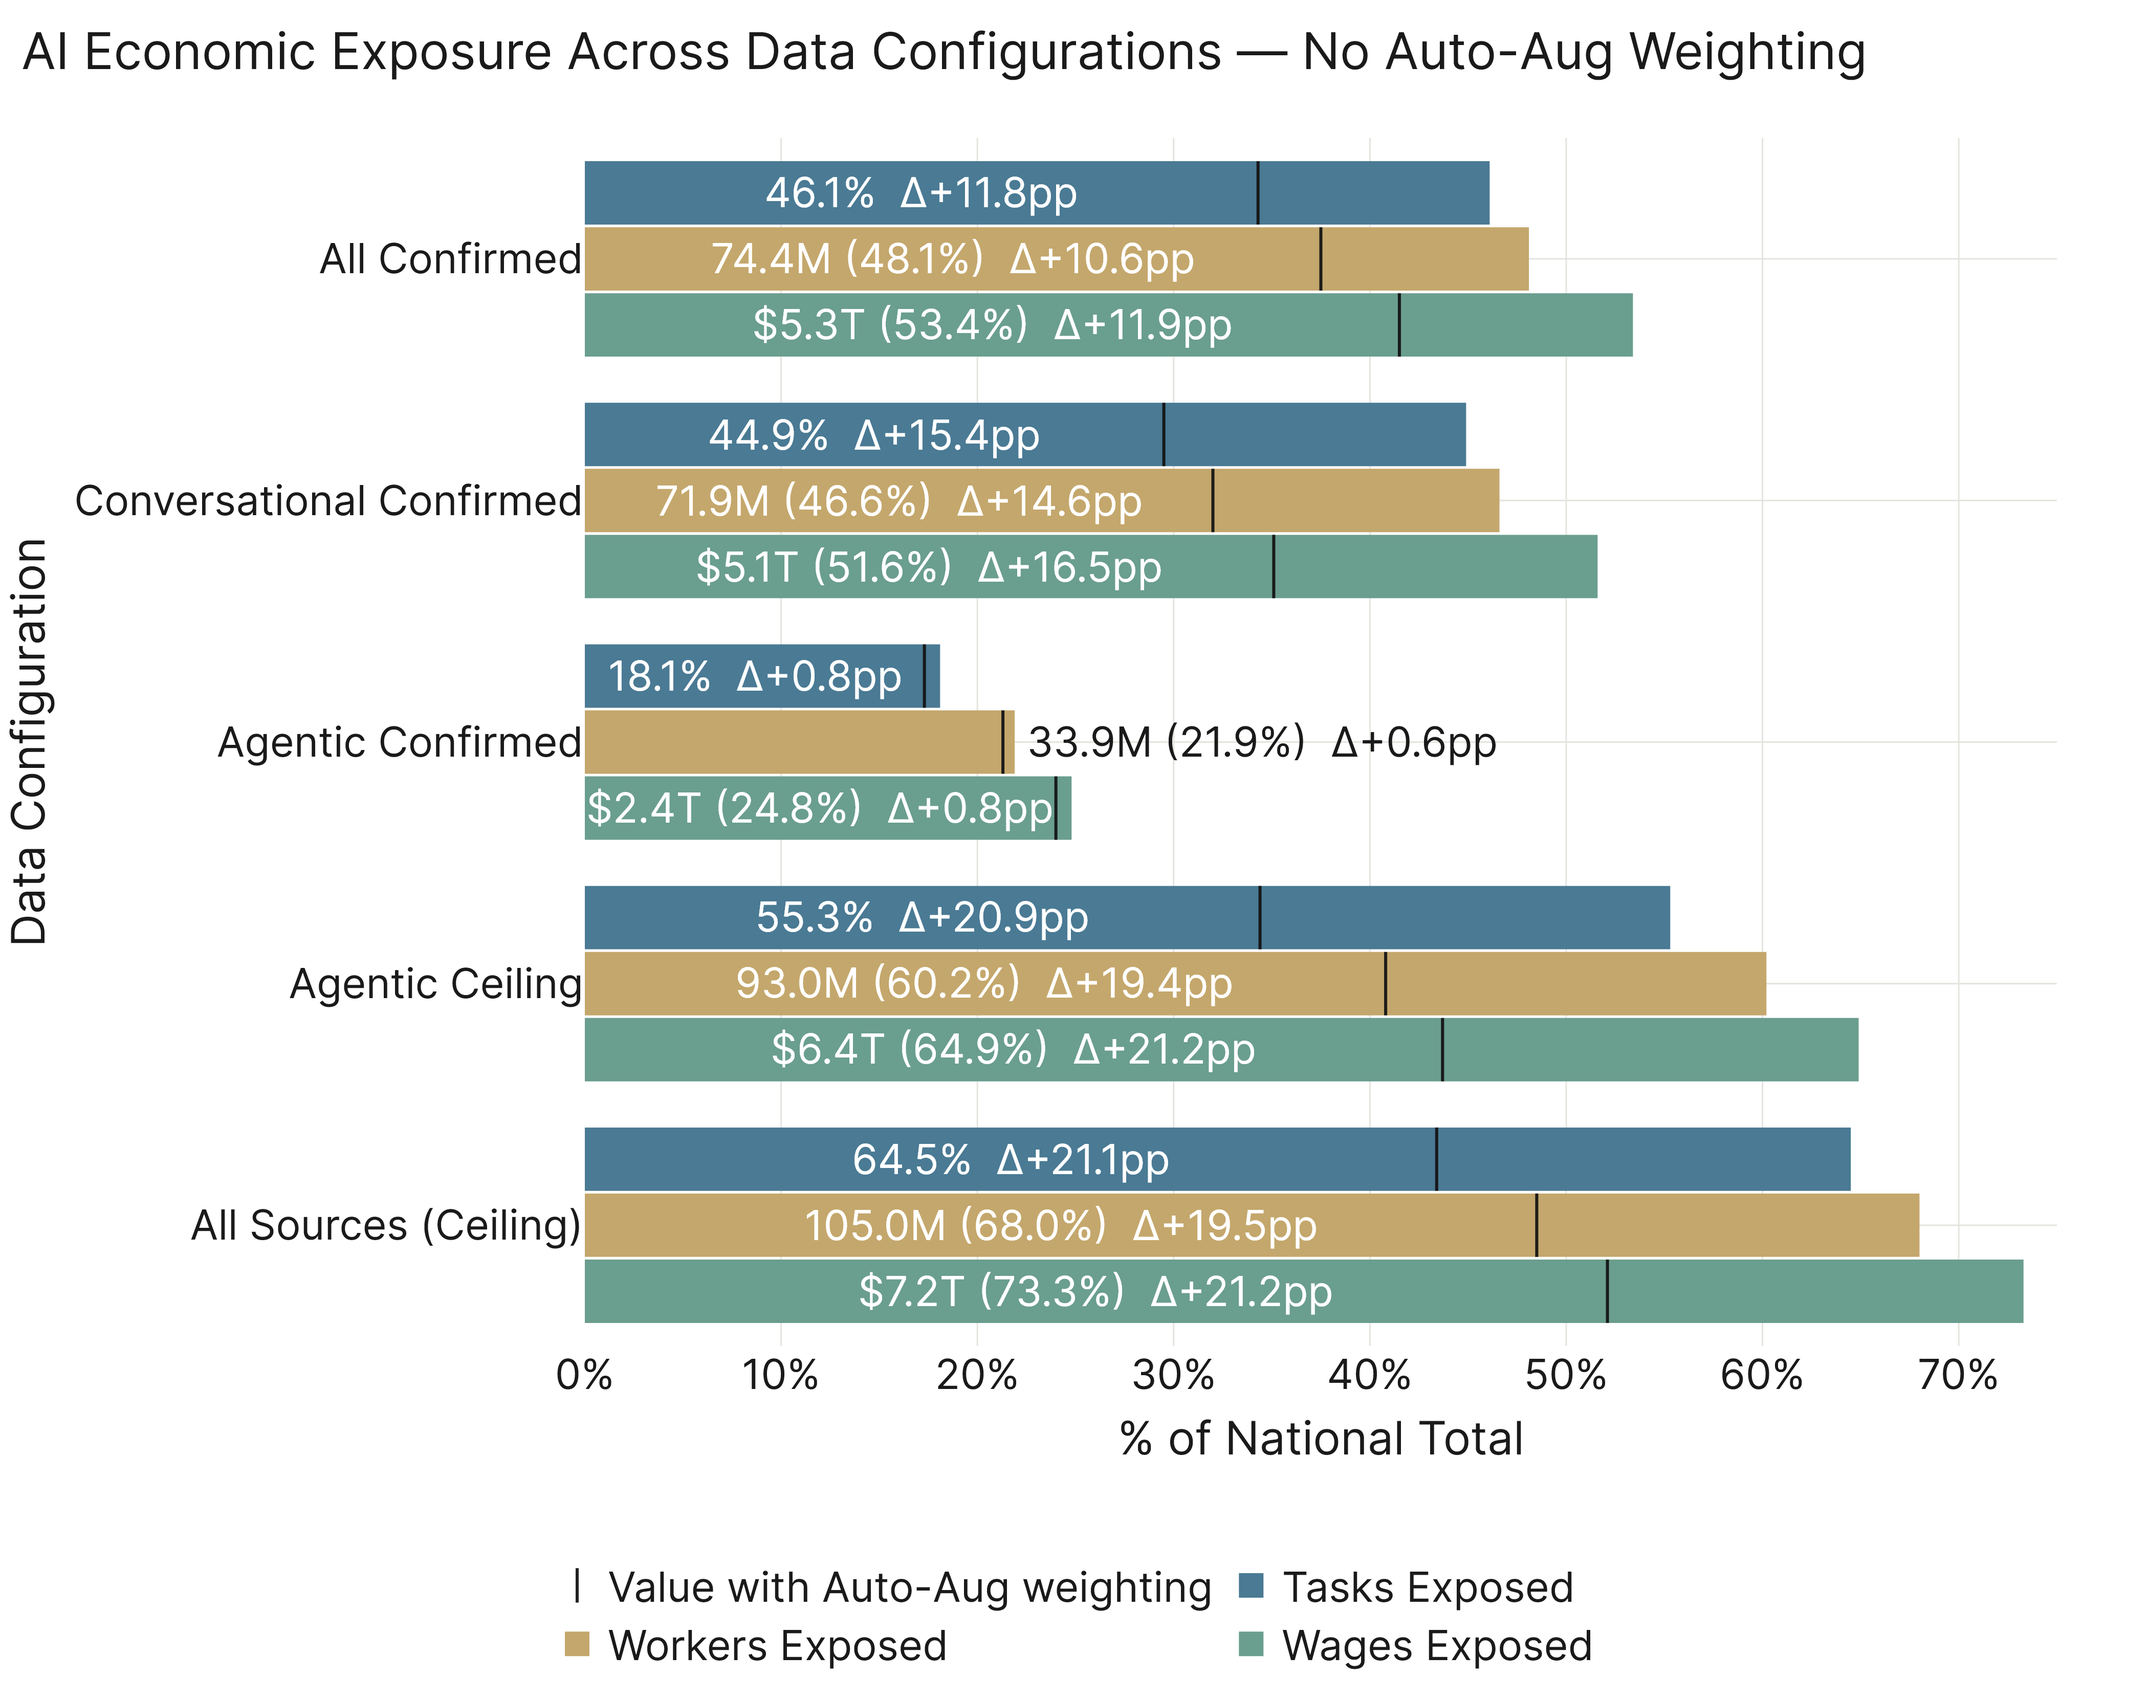
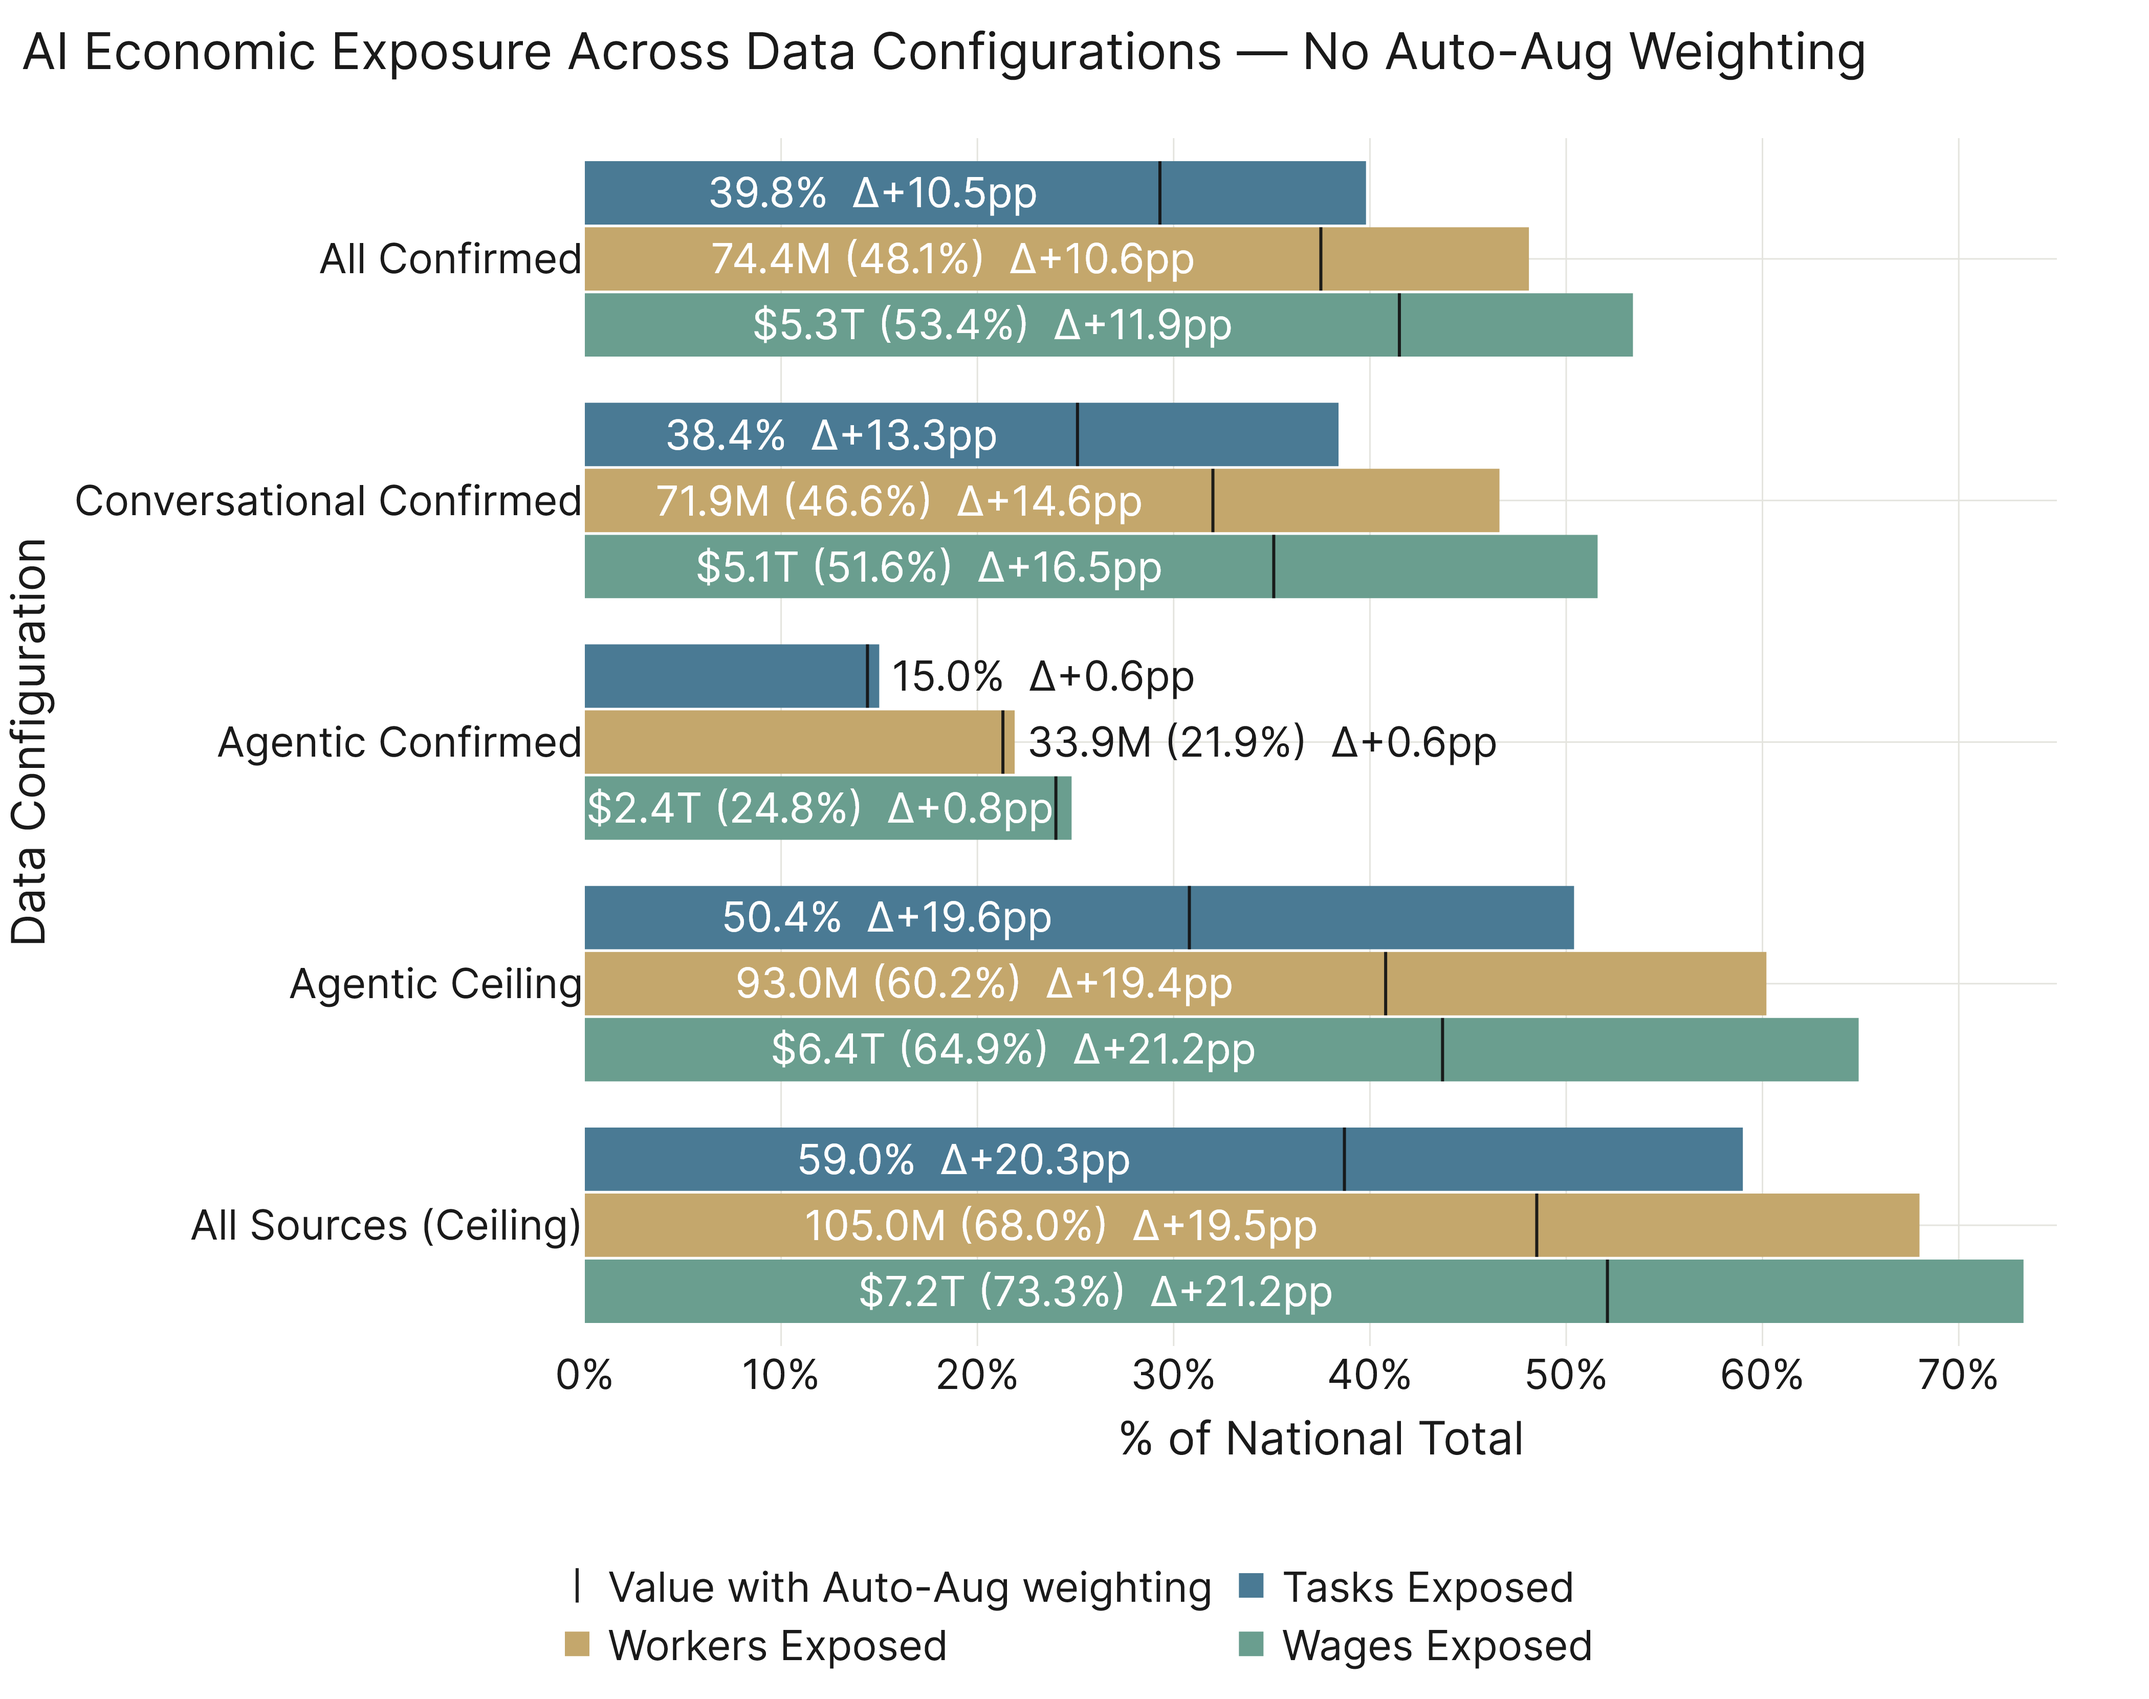
agg chart update

diff --git a/analysis/paper/results/appendix/run.py b/analysis/paper/results/appendix/run.py
@@ -847,16 +847,37 @@ def _national_totals_emp_wages() -> tuple[float, float]:
     return total_emp, total_wages
 
 
+def _eco_tc_by_occ_app() -> pd.Series:
+    """Per-occupation eco baseline task_comp sum (freq, no auto-aug, all phys).
+    Denominator for the economy-wide ratio-of-totals % tasks number — mirrors
+    `_eco_task_comp_by_occ` in part_1/run.py."""
+    from backend.compute import load_eco_baseline
+    eco = load_eco_baseline(method="freq", physical_mode="all", geo="nat")
+    return eco.groupby("title_current")["task_comp"].sum()
+
+
+def _econ_pct_tasks(df: pd.DataFrame, eco_tc_by_occ: pd.Series) -> float:
+    """Ratio-of-totals % tasks across all (task, occ) pairs in the economy:
+    Σ_occ (pct[occ]/100 × eco_tc[occ]) / Σ_occ eco_tc[occ] × 100."""
+    eco_tc_total = float(eco_tc_by_occ.sum())
+    if eco_tc_total <= 0:
+        return 0.0
+    eco_aligned = df["category"].map(eco_tc_by_occ).fillna(0.0)
+    ai_tc_total = float(((df["pct_tasks_affected"] / 100.0) * eco_aligned).sum())
+    return ai_tc_total / eco_tc_total * 100.0
+
+
 def _compute_paper_overview_rows(total_emp: float, total_wages: float) -> list[dict]:
     """Reproduce the paper part_1 build_overview values (auto_aug=True, method=freq)
     so variant charts can show delta-vs-paper."""
+    eco_tc_by_occ = _eco_tc_by_occ_app()
     rows: list[dict] = []
     for key in OVERVIEW_CONFIG_ORDER:
         ds = ANALYSIS_CONFIGS[key]
         df = _run_overview_config(ds, use_auto_aug=True)
         workers = float(df["workers_affected"].sum())
         wages = float(df["wages_affected"].sum())
-        pct_tasks = float(df["pct_tasks_affected"].mean())
+        pct_tasks = _econ_pct_tasks(df, eco_tc_by_occ)
         rows.append({
             "config": key,
             "pct_tasks": round(pct_tasks, 1),
@@ -1088,6 +1109,7 @@ def build_overview_no_autoaug(results: Path, figures: Path) -> None:
     black tick on the bar at the paper chart's value)."""
     total_emp, total_wages = _national_totals_emp_wages()
     paper_rows = _compute_paper_overview_rows(total_emp, total_wages)
+    eco_tc_by_occ = _eco_tc_by_occ_app()
 
     rows: list[dict] = []
     for key in OVERVIEW_CONFIG_ORDER:
@@ -1097,7 +1119,7 @@ def build_overview_no_autoaug(results: Path, figures: Path) -> None:
 
         workers = float(df["workers_affected"].sum())
         wages = float(df["wages_affected"].sum())
-        pct_tasks = float(df["pct_tasks_affected"].mean())
+        pct_tasks = _econ_pct_tasks(df, eco_tc_by_occ)
         pct_workers = workers / total_emp * 100
         pct_wages = wages / total_wages * 100
 

diff --git a/analysis/paper/results/part_1/run.py b/analysis/paper/results/part_1/run.py
@@ -164,6 +164,15 @@ def _get_national_totals() -> tuple[float, float]:
     return total_emp, total_wages
 
 
+def _eco_task_comp_by_occ() -> pd.Series:
+    """Per-occupation eco baseline task_comp sum (freq, no auto-aug, all phys).
+    Used as the economy-wide denominator for the overview chart's ratio-of-
+    totals % tasks number."""
+    from backend.compute import load_eco_baseline
+    eco = load_eco_baseline(method="freq", physical_mode="all", geo="nat")
+    return eco.groupby("title_current")["task_comp"].sum()
+
+
 def _get_eco_task_count() -> int:
     from backend.compute import load_eco_raw
     eco = load_eco_raw()
@@ -245,6 +254,8 @@ SIG_NOTE: str = "All correlations significant at p < .001 (two-tailed Spearman).
 
 def build_overview(results: Path, figures: Path) -> None:
     total_emp, total_wages = _get_national_totals()
+    eco_tc_by_occ = _eco_task_comp_by_occ()
+    eco_tc_total = float(eco_tc_by_occ.sum())
 
     rows: list[dict] = []
     for key in CONFIG_ORDER:
@@ -254,7 +265,12 @@ def build_overview(results: Path, figures: Path) -> None:
 
         workers = float(df["workers_affected"].sum())
         wages = float(df["wages_affected"].sum())
-        pct_tasks = float(df["pct_tasks_affected"].mean())
+        # Ratio-of-totals across all (task, occ) pairs in the economy:
+        # numerator is each occ's ai_task_comp (= pct[occ]/100 × eco_tc[occ]);
+        # denominator is the economy-wide eco_tc sum.
+        eco_tc_aligned = df["category"].map(eco_tc_by_occ).fillna(0.0)
+        ai_tc_total = float(((df["pct_tasks_affected"] / 100.0) * eco_tc_aligned).sum())
+        pct_tasks = (ai_tc_total / eco_tc_total * 100.0) if eco_tc_total > 0 else 0.0
         pct_workers = workers / total_emp * 100
         pct_wages = wages / total_wages * 100
 
